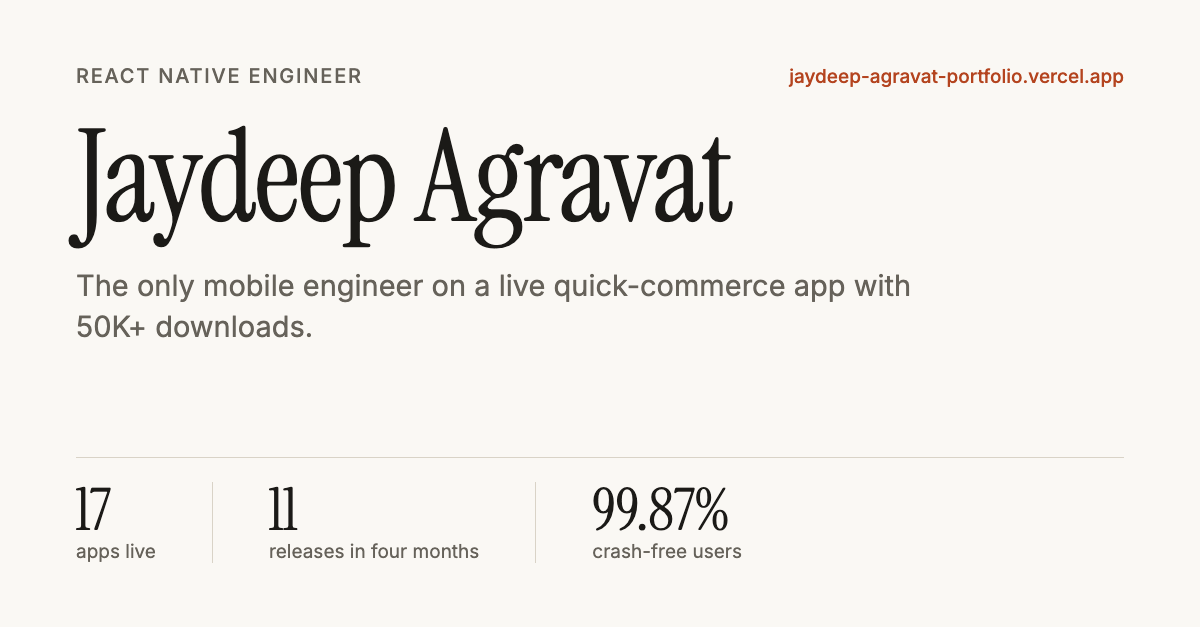
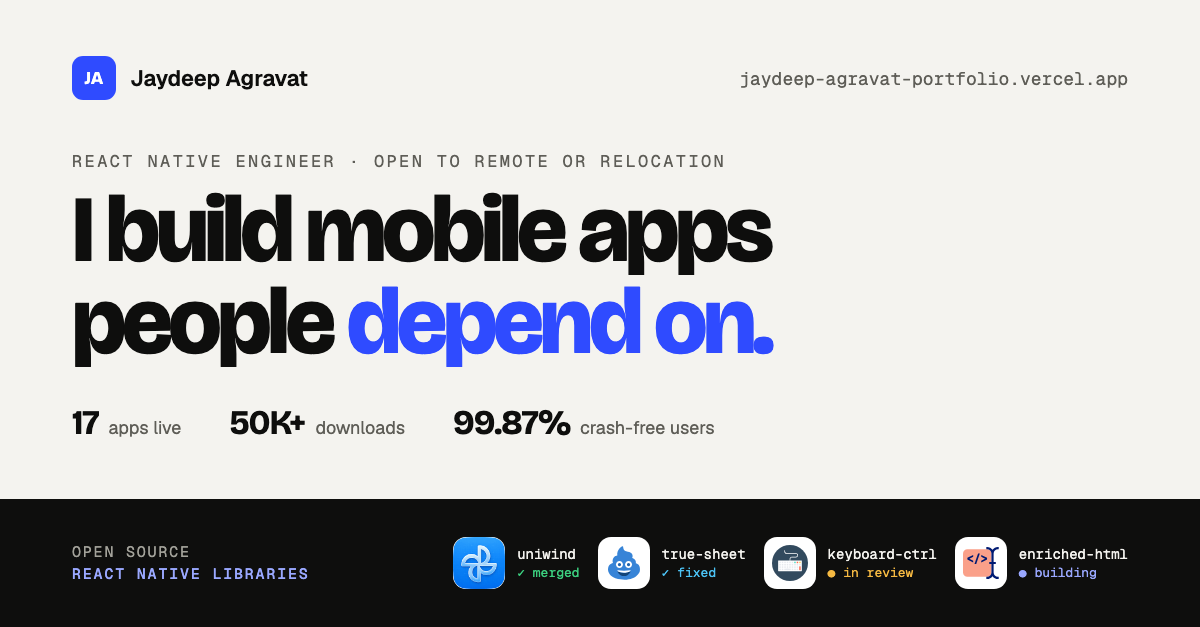
Redesign the share image to match the site and show open source work

diff --git a/scripts/og/og-image.html b/scripts/og/og-image.html
@@ -1,0 +1,86 @@
+<!doctype html>
+<!-- Source of public/og-image.png (1200x627). Render from this folder with:
+"/Applications/Google Chrome.app/Contents/MacOS/Google Chrome" --headless=new --hide-scrollbars \
+  --force-device-scale-factor=1 --window-size=1200,627 --virtual-time-budget=8000 \
+  --allow-file-access-from-files --screenshot=../../public/og-image.png "file://$PWD/og-image.html" -->
+<html lang="en">
+<head>
+<meta charset="utf-8" />
+<link href="https://fonts.googleapis.com/css2?family=Bricolage+Grotesque:opsz,wght@12..96,500..800&family=Geist:wght@400..600&family=Geist+Mono:wght@400;500&display=swap" rel="stylesheet" />
+<style>
+  * { box-sizing: border-box; margin: 0; padding: 0; }
+  html, body { width: 1200px; height: 627px; }
+  body {
+    position: relative;
+    overflow: hidden;
+    background: #f4f3ef;
+    color: #0e0e0d;
+    font-family: "Geist", system-ui, sans-serif;
+    padding: 56px 72px 0;
+  }
+  .top { display: flex; align-items: center; justify-content: space-between; }
+  .brand { display: flex; align-items: center; gap: 14px; font-weight: 600; font-size: 22px; }
+  .mark {
+    display: grid; place-items: center; width: 44px; height: 44px; border-radius: 11px;
+    background: #2f4bff; color: #fff; font-family: "Bricolage Grotesque"; font-weight: 700; font-size: 18px;
+  }
+  .url { font-family: "Geist Mono"; font-size: 18px; color: #5e5d57; }
+  .eyebrow {
+    margin-top: 50px; font-family: "Geist Mono"; font-size: 17px; letter-spacing: 0.14em;
+    text-transform: uppercase; color: #5e5d57;
+  }
+  h1 {
+    margin-top: 12px; font-family: "Bricolage Grotesque"; font-weight: 800; font-size: 94px;
+    line-height: 0.98; letter-spacing: -0.045em;
+  }
+  h1 em { font-style: normal; color: #2f4bff; }
+  .stats { display: flex; gap: 48px; margin-top: 34px; }
+  .stats div { display: flex; align-items: baseline; gap: 10px; }
+  .stats b { font-family: "Bricolage Grotesque"; font-weight: 700; font-size: 34px; letter-spacing: -0.03em; }
+  .stats span { font-size: 18px; color: #5e5d57; }
+  .oss {
+    position: absolute; left: 0; right: 0; bottom: 0; height: 128px;
+    display: flex; align-items: center; gap: 26px; padding: 0 72px;
+    background: #0e0e0d; color: #f4f3ef;
+  }
+  .oss-label { font-family: "Geist Mono"; font-size: 15px; letter-spacing: 0.12em; text-transform: uppercase; color: #a3a29a; line-height: 1.5; }
+  .oss-label strong { display: block; color: #9aa8ff; font-weight: 500; }
+  .logos { display: flex; gap: 18px; margin-left: auto; }
+  .logo { display: flex; align-items: center; gap: 12px; }
+  .tile {
+    display: grid; place-items: center; width: 52px; height: 52px; border-radius: 13px;
+    background: #fff; padding: 8px; overflow: hidden;
+  }
+  .tile.full { padding: 0; }
+  .tile img { width: 100%; height: 100%; object-fit: contain; }
+  .logo p { font-family: "Geist Mono"; font-size: 14px; line-height: 1.35; color: #f4f3ef; }
+  .logo p small { display: block; font-size: 13px; }
+  .merged small { color: #3ccf7f; }
+  .fixed small { color: #4cc3f5; }
+  .review small { color: #f5b942; }
+  .building small { color: #9aa8ff; }
+</style>
+</head>
+<body>
+  <div class="top">
+    <div class="brand"><span class="mark">JA</span>Jaydeep Agravat</div>
+    <div class="url">jaydeep-agravat-portfolio.vercel.app</div>
+  </div>
+  <p class="eyebrow">React Native Engineer · Open to remote or relocation</p>
+  <h1>I build mobile apps<br />people <em>depend on.</em></h1>
+  <div class="stats">
+    <div><b>17</b><span>apps live</span></div>
+    <div><b>50K+</b><span>downloads</span></div>
+    <div><b>99.87%</b><span>crash-free users</span></div>
+  </div>
+  <div class="oss">
+    <p class="oss-label">Open source<strong>React Native libraries</strong></p>
+    <div class="logos">
+      <div class="logo merged"><span class="tile full"><img src="../../public/images/oss/uniwind.png" /></span><p>uniwind<small>✓ merged</small></p></div>
+      <div class="logo fixed"><span class="tile"><img src="../../public/images/oss/true-sheet.svg" /></span><p>true-sheet<small>✓ fixed</small></p></div>
+      <div class="logo review"><span class="tile"><img src="../../public/images/oss/keyboard-controller.svg" /></span><p>keyboard-ctrl<small>● in review</small></p></div>
+      <div class="logo building"><span class="tile"><img src="../../public/images/oss/enriched-html.svg" /></span><p>enriched-html<small>● building</small></p></div>
+    </div>
+  </div>
+</body>
+</html>

diff --git a/index.html b/index.html
@@ -15,11 +15,11 @@
   <meta property="og:title" content="Jaydeep Agravat | React Native Engineer" />
   <meta property="og:description"
     content="The only mobile engineer on a live quick-commerce app with 50K+ downloads. Rebuilt and launched its customer app; 17 apps live on the Play Store and App Store." />
-  <meta property="og:image" content="https://jaydeep-agravat-portfolio.vercel.app/og-image.png" />
+  <meta property="og:image" content="https://jaydeep-agravat-portfolio.vercel.app/og-image.png?v=2" />
   <meta property="og:image:width" content="1200" />
   <meta property="og:image:height" content="627" />
   <meta name="twitter:card" content="summary_large_image" />
-  <meta name="twitter:image" content="https://jaydeep-agravat-portfolio.vercel.app/og-image.png" />
+  <meta name="twitter:image" content="https://jaydeep-agravat-portfolio.vercel.app/og-image.png?v=2" />
 
   <link rel="apple-touch-icon" sizes="180x180" href="/apple-touch-icon.png">
   <link rel="icon" type="image/png" sizes="32x32" href="/favicon-32x32.png">
